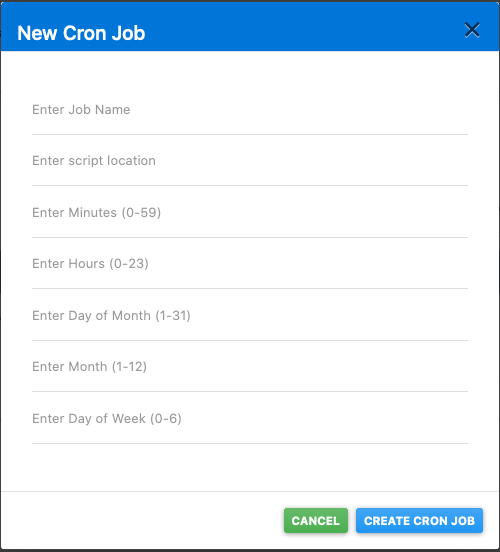
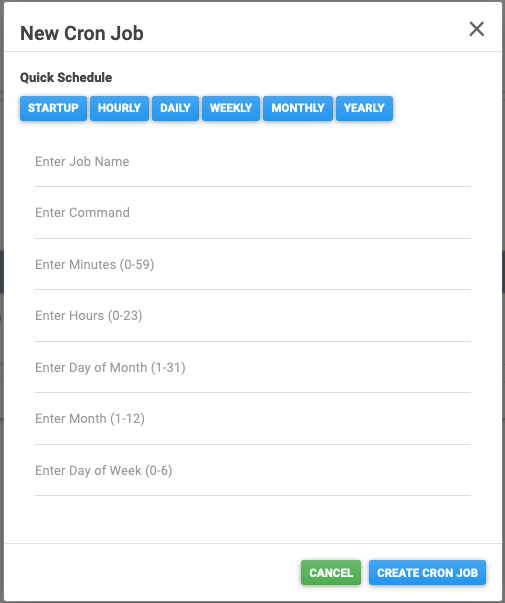
new cronjob modal, cleaned up duplicate CDNs, updated readme

diff --git a/templates/cronjobs.html b/templates/cronjobs.html
@@ -16,7 +16,7 @@
 
     <script src="https://ajax.googleapis.com/ajax/libs/jquery/3.5.1/jquery.min.js"></script>
     <script src="https://cdnjs.cloudflare.com/ajax/libs/popper.js/1.16.0/umd/popper.min.js"></script>
-    <script src="https://maxcdn.bootstrapcdn.com/bootstrap/4.5.0/js/bootstrap.min.js"></script>
+   
 </head>
 
 <!--######################################### Modals -->
@@ -24,45 +24,37 @@
 
 <!-- ### New cron job Modal -->
       <!-- The Modal -->
-  <div class="modal" id="cronjobs-newmodal">
+  <div class="modal" id="cronjob-newmodal">
     <div class="modal-dialog modal-md">
       <div class="modal-content">
       
         <!-- Modal Header -->
-        <div class="modal-header" style="background-color:#0275d8; height: 50px;color: white;">
+        <div class="modal-header" style="height: 50px;">
           <h4 class="modal-title"><p>New Cron Job</p></h4>
           <button type="button" class="close" data-dismiss="modal">&times;</button>
         </div>
 
+        <!-- modal body-->
         <div class="modal-body">
+          <label><strong>Quick Schedule</strong></label><br>
+          <button type="button" class="btn btn-primary btn-sm"><strong>Startup</strong></button>
+          <button type="button" class="btn btn-primary btn-sm"><strong>Hourly</strong></button>
+          <button type="button" class="btn btn-primary btn-sm"><strong>Daily</strong></button>
+          <button type="button" class="btn btn-primary btn-sm"><strong>Weekly</strong></button>
+          <button type="button" class="btn btn-primary btn-sm"><strong>Monthly</strong></button>
+          <button type="button" class="btn btn-primary btn-sm"><strong>Yearly</strong></button>
           <form>
             <div class="form-group" style="padding:15px;">
-              
-                  
                   <input type="text" class="form-control" placeholder ="Enter Job Name" id="cronjob-name">
-             
-                  
-                  <input type="text" placeholder ="Enter script location" class="form-control" id="cronjob-job">
-              
-                  
+                  <input type="text" placeholder ="Enter Command" class="form-control" id="cronjob-job">
                   <input type="text" class="form-control" placeholder ="Enter Minutes (0-59)" id="cronjob-min">
-
-                  
                   <input type="text" class="form-control" placeholder ="Enter Hours (0-23)" id="cronjob-hour">
-
-                  
                   <input type="text" class="form-control" placeholder ="Enter Day of Month (1-31)" id="cronjob-dom">
-                  
-                  
                   <input type="text" class="form-control" placeholder ="Enter Month (1-12)" id="cronjob-month">
-
-                  
                   <input type="text" class="form-control" placeholder ="Enter Day of Week (0-6)" id="cronjob-dow">
             </div>
           </form>
-        </div>
-        
-
+        </div>     
 
         <!-- Modal footer -->
         <div class="modal-footer">
@@ -77,14 +69,20 @@
 
 <!-- ### Backup cron job Modal -->
       <!-- The Modal -->
-  <div class="modal" id="renewIPModal">
+  <div class="modal" id="cronjob-backupmodal">
     <div class="modal-dialog modal-sm">
       <div class="modal-content">
       
         <!-- Modal Header -->
         <div class="modal-header" style="background-color: #5cb85c;height: 50px;">
-          <h6 class="modal-title"><p><strong>Info:</strong> Are you sure?</p></h6>
+          <h6 class="modal-title"><p><strong>Enter backup location</strong></p></h6>
           <button type="button" class="close" data-dismiss="modal">&times;</button>
+        </div>
+
+        <!-- Modal Body-->
+        <div class="modal-body">
+            <label for="cronjob-backuplocation"></label>
+            <input type="file" id="cronjob-backuplocation"></input>
         </div>
         
         <!-- Modal footer -->
@@ -101,7 +99,7 @@
 
 <!-- ### Import cron job Modal -->
       <!-- The Modal -->
-  <div class="modal" id="renewIPModal">
+  <div class="modal" id="cronjob-importmodal">
     <div class="modal-dialog modal-sm">
       <div class="modal-content">
       
@@ -125,7 +123,7 @@
 
 <!-- ### Export cron job Modal -->
       <!-- The Modal -->
-  <div class="modal" id="renewIPModal">
+  <div class="modal" id="cronjob-exportmodal">
     <div class="modal-dialog modal-sm">
       <div class="modal-content">
       
@@ -150,20 +148,40 @@
 
   <!-- ### Edit cron job Modal -->
       <!-- The Modal -->
-  <div class="modal" id="renewIPModal">
-    <div class="modal-dialog modal-sm">
+  <div class="modal" id="cronjob-editmodal">
+    <div class="modal-dialog modal-md">
       <div class="modal-content">
       
         <!-- Modal Header -->
-        <div class="modal-header" style="background-color: #5cb85c;height: 50px;">
-          <h6 class="modal-title"><p><strong>Info:</strong> Are you sure?</p></h6>
+        <div class="modal-header" style="background-color: #f0ad4e;height: 50px;">
+          <h4 class="modal-title"><p>Edit Job</p></h4>
           <button type="button" class="close" data-dismiss="modal">&times;</button>
         </div>
+
+        <!-- modal body-->
+        <div class="modal-body">
+          <button type="button" class="btn btn-primary btn-sm"><strong>@reboot</strong></button>
+          <button type="submit" class="btn btn-primary btn-sm"><strong>Every 5 min</strong></button>
+          <button type="button" class="btn btn-primary btn-sm"><strong>Everyday</strong></button>
+          <button type="submit" class="btn btn-primary btn-sm"><strong>Every Month</strong></button>
+          <form>
+            <div class="form-group" style="padding:15px;">
+                  <input type="text" class="form-control" placeholder ="Enter Job Name" id="cronjob-name">
+                  <input type="text" placeholder ="Enter script location" class="form-control" id="cronjob-job">
+                  <input type="text" class="form-control" placeholder ="Enter Minutes (0-59)" id="cronjob-min">
+                  <input type="text" class="form-control" placeholder ="Enter Hours (0-23)" id="cronjob-hour">
+                  <input type="text" class="form-control" placeholder ="Enter Day of Month (1-31)" id="cronjob-dom">
+                  <input type="text" class="form-control" placeholder ="Enter Month (1-12)" id="cronjob-month">
+                  <input type="text" class="form-control" placeholder ="Enter Day of Week (0-6)" id="cronjob-dow">
+            </div>
+          </form>
+        </div>     
+
         
         <!-- Modal footer -->
         <div class="modal-footer">
           <button type="button" class="btn btn-success btn-sm" data-dismiss="modal" style="color: white;"><strong>Cancel</strong></button>
-          <button type="submit" class="btn btn-primary btn-sm"><strong>Renew</strong></button>
+          <button type="submit" class="btn btn-primary btn-sm"><strong>Commit Changes</strong></button>
         </div>
         
       </div>
@@ -174,44 +192,44 @@
 
 <!-- ### stop cron job Modal -->
       <!-- The Modal -->
-  <div class="modal" id="renewIPModal">
+  <div class="modal" id="cronjob-stopmodal">
     <div class="modal-dialog modal-sm">
       <div class="modal-content">
       
         <!-- Modal Header -->
-        <div class="modal-header" style="background-color: #5cb85c;height: 50px;">
-          <h6 class="modal-title"><p><strong>Info:</strong> Are you sure?</p></h6>
+        <div class="modal-header" style="background-color: #e84c31;height: 50px;color:white;">
+          <h6 class="modal-title"><p>Stop Job?</p></h6>
           <button type="button" class="close" data-dismiss="modal">&times;</button>
         </div>
         
         <!-- Modal footer -->
         <div class="modal-footer">
           <button type="button" class="btn btn-success btn-sm" data-dismiss="modal" style="color: white;"><strong>Cancel</strong></button>
-          <button type="submit" class="btn btn-primary btn-sm"><strong>Renew</strong></button>
+          <button type="submit" class="btn btn-danger btn-sm"><strong>Stop</strong></button>
         </div>
         
       </div>
     </div>
   </div>
-  <!--### stop New Cronjob Modal -->
+  <!--### stop Cronjob Modal -->
 
 
   <!-- ### delete cron job Modal -->
       <!-- The Modal -->
-  <div class="modal" id="renewIPModal">
+  <div class="modal" id="cronjob-deletemodal">
     <div class="modal-dialog modal-sm">
       <div class="modal-content">
       
         <!-- Modal Header -->
-        <div class="modal-header" style="background-color: #5cb85c;height: 50px;">
-          <h6 class="modal-title"><p><strong>Info:</strong> Are you sure?</p></h6>
+        <div class="modal-header" style="background-color: #e84c31;height: 50px; color: white;">
+          <h6 class="modal-title"><p> Delete Job?</p></h6>
           <button type="button" class="close" data-dismiss="modal">&times;</button>
         </div>
         
         <!-- Modal footer -->
         <div class="modal-footer">
           <button type="button" class="btn btn-success btn-sm" data-dismiss="modal" style="color: white;"><strong>Cancel</strong></button>
-          <button type="submit" class="btn btn-primary btn-sm"><strong>Renew</strong></button>
+          <button type="submit" class="btn btn-danger btn-sm"><strong>Delete</strong></button>
         </div>
         
       </div>
@@ -245,13 +263,14 @@
         <div class="card-body">
             <h4 class="card-title">Cron Jobs List</h4>
             <div class="btn-group" role="group" style="padding: 0px;">
-                <button class="btn btn-primary btn-sm text-left" data-toggle="modal" data-target="#cronjobs-newmodal" id="btn-cronjobs-new" type="button" title="New cron job">New</button>
-                <button class="btn btn-primary btn-sm" data-toggle="tooltip" data-bs-tooltip="" id="btn-cronjobs-backup" type="submit" title="Backup cron job">Backup</button><button class="btn btn-primary btn-sm" data-toggle="tooltip" data-bs-tooltip="" id="btn-cronjobs-import" type="submit" title="Import cron job">Import</button>
-                <button class="btn btn-primary btn-sm" data-toggle="tooltip" data-bs-tooltip="" id="btn-cronjobs-export" type="submit" title="Export cron job">Export</button>
+                <button class="btn btn-primary btn-sm text-left" data-toggle="modal" data-target="#cronjob-newmodal" id="btn-cronjobs-new" type="button" title="New cron job">New</button>
+                <button class="btn btn-primary btn-sm" data-toggle="modal" data-target="#cronjob-backupmodal" id="btn-cronjobs-backup" type="submit" title="Backup cron job">Backup</button>  
+                <button class="btn btn-primary btn-sm" data-toggle="modal" data-target="#cronjob-importmodal" id="btn-cronjobs-import" type="submit" title="Import cron job">Import</button>
+                <button class="btn btn-primary btn-sm" data-toggle="modal" data-target="#cronjob-exportmodal" id="btn-cronjobs-export" type="submit" title="Export cron job">Export</button>
             </div>
             <!-- Start: Table With Search -->
             <div class="col-md-12 search-table-col">
-                <div class="form-group pull-right col-lg-4"><input type="text" class="search form-control" placeholder="Search by typing here.."></div><span class="counter pull-right"></span>
+                <div class="form-group pull-right col-lg-4"><input type="text" class="search form-control" placeholder="Search job by typing here.."></div><span class="counter pull-right"></span>
                 <div class="table-responsive table-bordered table table-hover table-bordered results">
                     <table class="table table-bordered table-hover">
                         <thead class="bill-header cs">
@@ -274,9 +293,10 @@
                                 <td class="text-center">&nbsp;/home/eli/bin/backup.sh &gt;&gt; /home/eli/logs/back.log 2&gt;&amp;1</td>
                                 <td class="text-center">*/2 * * * *</td>
                                 <td class="text-center">5 minutes ago</td>
-                                <td class="text-center"><button class="btn btn-success" data-toggle="tooltip" data-bs-tooltip="" id="btn-edit-cronjob" style="margin-left: 5px;" type="submit" title="Edit Job"><i class="fa fa-edit" style="font-size: 15px;"></i></button>
-                                    <button
-                                        class="btn btn-primary" data-toggle="tooltip" data-bs-tooltip="" id="btn-stopjob-cronjobpage" style="margin-left: 5px;background-color: rgb(115,156,232);" type="submit" title="Stop Job"><i class="fa fa-hand-stop-o" style="font-size: 15px;"></i></button><button class="btn btn-danger" data-toggle="tooltip" data-bs-tooltip="" id="btn-deletejob-cronjobpage" style="margin-left: 5px;" type="submit" title="Delete Job"><i class="fa fa-trash" style="font-size: 15px;"></i></button></td>
+                                <td class="text-center">
+                                <button class="btn" id="btn-edit-cronjob" data-toggle="modal" data-target="#cronjob-editmodal" style="margin-left: 5px;background-color: #f0ad4e;" type="submit" title="Edit Job"><i class="fa fa-edit" style="font-size: 15px;"></i></button>
+                                <button class="btn btn-primary" data-toggle="modal" data-target="#cronjob-stopmodal" id="btn-stopjob-cronjobpage" style="margin-left: 5px;background-color: rgb(115,156,232);" type="submit" title="Stop Job"><i class="fa fa-hand-stop-o" style="font-size: 15px;"></i></button>
+                                <button class="btn btn-danger" data-toggle="modal" data-target="#cronjob-deletemodal" id="btn-deletejob-cronjobpage" style="margin-left: 5px;" type="submit" title="Delete Job"><i class="fa fa-trash" style="font-size: 15px;"></i></button></td>
                             </tr>
                         </tbody>
                     </table>

diff --git a/templates/stats.html b/templates/stats.html
@@ -15,11 +15,15 @@
 
     <script src="https://ajax.googleapis.com/ajax/libs/jquery/3.5.1/jquery.min.js"></script>
     <script src="https://cdnjs.cloudflare.com/ajax/libs/popper.js/1.16.0/umd/popper.min.js"></script>
-    <script src="https://maxcdn.bootstrapcdn.com/bootstrap/4.5.0/js/bootstrap.min.js"></script>
+
 </head>
 
 <body>
 
+
+
+
+    
     <!-- ################ Begin Modal Section ####################################-->
 
     <!-- ### Restart Modal -->
@@ -49,6 +53,8 @@
     </div>
   </div>
   <!--### End Restart Modal -->
+
+
 
     <!-- ### Release IP confirm Modal -->
       <!-- The Modal -->
@@ -142,8 +148,13 @@
     <div class="container">
         <div class="text-center d-inline-block" id="top-div">
             <br><h2 class="text-center" id="heading-system-stats">System Stats</h2>
-            <div class="dropdown"><button class="btn btn-link dropdown-toggle text-center d-inline-block" data-toggle="dropdown" aria-expanded="false" type="submit"><strong>Local Machine&nbsp;</strong></button>
-                <div class="dropdown-menu" role="menu"><a class="dropdown-item" role="presentation" href="#">First Item</a><a class="dropdown-item" role="presentation" href="#">Second Item</a><a class="dropdown-item" role="presentation" href="#">Third Item</a></div>
+            <div class="dropdown">
+              <button class="btn btn-link dropdown-toggle text-center d-inline-block" data-toggle="dropdown" aria-expanded="false" type="submit"><strong>Local Machine&nbsp;</strong></button>
+                <div class="dropdown-menu" role="menu">
+                  <a class="dropdown-item" role="presentation" href="#">First Item</a>
+                  <a class="dropdown-item" role="presentation" href="#">Second Item</a>
+                  <a class="dropdown-item" role="presentation" href="#">Third Item</a>
+                </div>
             </div>
         </div>
     </div>
